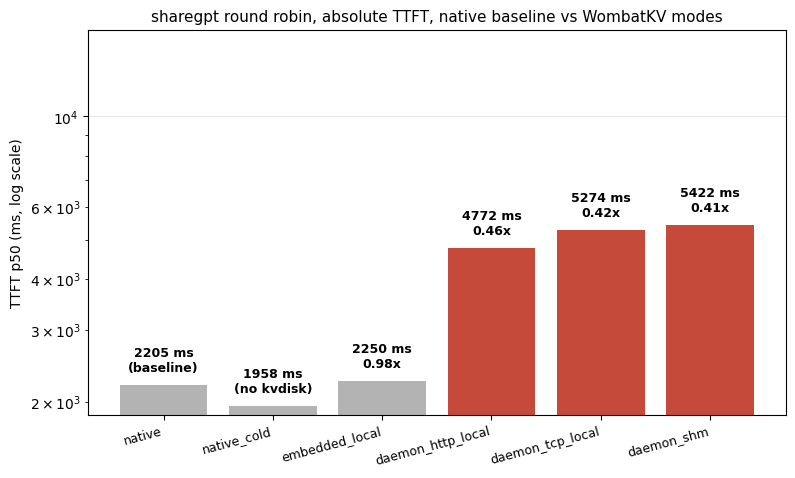
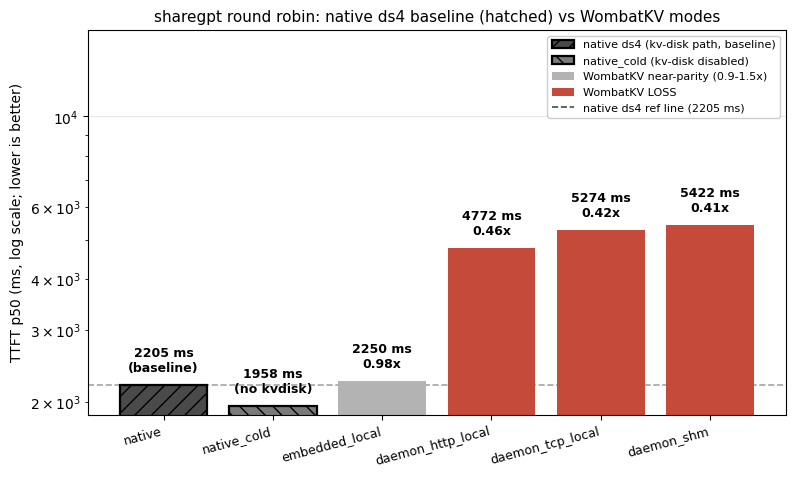
docs(charts): make native ds4 baseline visually unmistakable in every comparison chart
Three categories of fix on top of the chart-gen pass that landed in 0.1.0-alpha.pre1.0:

A. chart_public_workloads (gutenberg-multiround-speedup.png + sharegpt-round-robin-speedup.png):
   native + native_cold bars were plain gray and blended with near-parity wkv bars (since
   _color_for_speedup() returns the same gray for 0.9-1.5x). Now they get the same hatched
   + thick-black-edge styling as chart_mode_matrix_exact, plus a dashed horizontal reference
   line at the native TTFT and an explicit legend. Reader can see the baseline at a glance.

B. chart_mode_matrix_heatmap (mode-x-restart-policy-heatmap.png): native + native_cold rows
   were filtered out entirely, so the 1.0x anchor was only implicit in the color scale. Now
   both native rows appear as the leftmost rows with 1.0x / 0.99x cells (bold labels), so
   the speedup magnitudes for wkv rows are visually anchored next to the baseline.

C. chart_save_path_tax + chart_stage_breakdown_stacked: these measure wkv-internal stages
   (save + restore paths) where native ds4 has no analog (its kvdisk write is internal to
   prefill). Added explicit footer notes pointing readers to the scenario charts for native
   TTFT comparison, plus fixed the save-path title-vs-bar overlap and stage-breakdown
   right-panel title overlap.

All other charts (alpha-dev, mode-matrix exact / partial-prefix / scenarios, public-replay
sharegpt-turn-cliff) were already plotting native correctly and are unchanged.

diff --git a/scripts/charts/generate_charts.py b/scripts/charts/generate_charts.py
@@ -361,15 +361,25 @@ def chart_mode_matrix_exact():
 
 def chart_mode_matrix_heatmap():
     rows = _read_csv(ARTIFACTS / CAMPAIGN_MODE_MATRIX / "exact_prompt_matrix.csv")
-    canonical = [r for r in rows if r["scenario"] == "canonical_long_prompt" and r["mode"] not in ("native", "native_cold")]
-    modes = sorted({r["mode"] for r in canonical})
+    canonical = [r for r in rows if r["scenario"] == "canonical_long_prompt"]
+    # Put native as the leftmost row so the 1.0x baseline is visually
+    # anchored in the grid instead of only implied by the color scale.
+    wkv_modes = sorted({r["mode"] for r in canonical if r["mode"] not in ("native", "native_cold")})
+    modes = ["native", "native_cold"] + wkv_modes
     policies = ["preserved", "wiped", "same_process"]
     grid = np.full((len(modes), len(policies)), np.nan)
     for r in canonical:
+        if r["mode"] not in modes:
+            continue
         i = modes.index(r["mode"])
         j = policies.index(r["restart_policy"])
-        grid[i, j] = float(r["speedup_vs_native"])
-    fig, ax = plt.subplots(figsize=(WIDTH_INCHES, 4.5))
+        val_str = r["speedup_vs_native"]
+        # Native vs native is 1.0 by definition; missing -> NaN
+        if r["mode"] == "native":
+            grid[i, j] = 1.0
+        elif val_str:
+            grid[i, j] = float(val_str)
+    fig, ax = plt.subplots(figsize=(WIDTH_INCHES, 5.0))
     from matplotlib.colors import LogNorm
     finite_vals = grid[np.isfinite(grid)]
     if finite_vals.size:
@@ -380,10 +390,24 @@ def chart_mode_matrix_heatmap():
     ax.set_xticks(range(len(policies)))
     ax.set_xticklabels(policies)
     ax.set_yticks(range(len(modes)))
-    ax.set_yticklabels(modes)
+    # Bold the two native rows so the baseline anchor is obvious.
+    yticklabels = []
+    for m in modes:
+        if m in ("native", "native_cold"):
+            yticklabels.append(f"{m} (baseline)")
+        else:
+            yticklabels.append(m)
+    ax.set_yticklabels(yticklabels)
+    for tick, m in zip(ax.get_yticklabels(), modes):
+        if m in ("native", "native_cold"):
+            tick.set_fontweight("bold")
     ax.set_xlabel("Restart policy")
     ax.set_ylabel("Mode")
-    ax.set_title("Deployment mode matrix - speedup vs native ds4 (log color)", fontsize=11)
+    ax.set_title(
+        "Deployment mode matrix - speedup vs native ds4 (log color)\n"
+        "Native + native_cold rows shown as 1.0x / 0.99x anchor; wkv rows colored relative to native",
+        fontsize=10,
+    )
     for i in range(len(modes)):
         for j in range(len(policies)):
             v = grid[i, j]
@@ -531,21 +555,36 @@ def chart_public_workloads():
         labels = [r["mode"] for r in ordered]
         ttfts = [float(r["ttft_p50_ms"]) for r in ordered]
         speedups = [float(r["speedup_vs_native_ttft"]) for r in ordered]
-        colors = []
+        colors, hatches, edges, edge_widths = [], [], [], []
         for r, sp in zip(ordered, speedups):
-            if r["mode"] in ("native", "native_cold"):
-                colors.append(NEUTRAL_COLOR)
+            if r["mode"] == "native":
+                colors.append("#4a4a4a")
+                hatches.append("//")
+                edges.append("black")
+                edge_widths.append(1.6)
+            elif r["mode"] == "native_cold":
+                colors.append("#7a7a7a")
+                hatches.append("\\\\")
+                edges.append("black")
+                edge_widths.append(1.6)
             else:
                 colors.append(_color_for_speedup(sp))
+                hatches.append("")
+                edges.append("none")
+                edge_widths.append(0)
 
+        native_ttft_val = float(native_row["ttft_p50_ms"]) if native_row else None
         fig, ax = plt.subplots(figsize=(WIDTH_INCHES, 5.0))
-        bars = ax.bar(range(len(labels)), ttfts, color=colors)
+        bars = ax.bar(range(len(labels)), ttfts, color=colors,
+                      edgecolor=edges, linewidth=edge_widths, hatch=hatches)
+        if native_ttft_val:
+            ax.axhline(native_ttft_val, color="#4a4a4a", linestyle="--",
+                       linewidth=1.2, alpha=0.5, zorder=0)
         ax.set_yscale("log")
-        ax.set_ylabel("TTFT p50 (ms, log scale)")
+        ax.set_ylabel("TTFT p50 (ms, log scale; lower is better)")
         ax.set_xticks(range(len(labels)))
         ax.set_xticklabels(labels, rotation=15, ha="right", fontsize=9)
-        n_trials = scen_rows[0].get("n_trials", "?")
-        title = f"{scenario.replace('_', ' ')}, absolute TTFT, native baseline vs WombatKV modes"
+        title = f"{scenario.replace('_', ' ')}: native ds4 baseline (hatched) vs WombatKV modes"
         ax.set_title(title, fontsize=11)
         ax.grid(axis="y", alpha=0.3)
         for bar, t, r, sp in zip(bars, ttfts, ordered, speedups):
@@ -558,6 +597,28 @@ def chart_public_workloads():
             ax.text(bar.get_x() + bar.get_width() / 2, bar.get_height() * 1.06,
                     label, ha="center", va="bottom", fontsize=9, fontweight="bold")
         ax.set_ylim(top=max(ttfts) * 3.0)
+        from matplotlib.patches import Patch
+        from matplotlib.lines import Line2D
+        legend_items = [
+            Patch(facecolor="#4a4a4a", edgecolor="black", linewidth=1.6, hatch="//",
+                  label="native ds4 (kv-disk path, baseline)"),
+        ]
+        if native_cold_row:
+            legend_items.append(Patch(facecolor="#7a7a7a", edgecolor="black", linewidth=1.6, hatch="\\\\",
+                                      label="native_cold (kv-disk disabled)"))
+        wkv_speedups = [sp for r, sp in zip(ordered, speedups) if r["mode"] not in ("native", "native_cold")]
+        if any(s >= 5 for s in wkv_speedups):
+            legend_items.append(Patch(facecolor=WIN_COLOR, label="WombatKV WIN (>= 5x)"))
+        if any(1.5 <= s < 5 for s in wkv_speedups):
+            legend_items.append(Patch(facecolor=SMALL_WIN_COLOR, label="WombatKV small WIN (1.5-5x)"))
+        if any(0.9 <= s < 1.5 for s in wkv_speedups):
+            legend_items.append(Patch(facecolor=NEUTRAL_COLOR, label="WombatKV near-parity (0.9-1.5x)"))
+        if any(s < 0.9 for s in wkv_speedups):
+            legend_items.append(Patch(facecolor=LOSS_COLOR, label="WombatKV LOSS"))
+        if native_ttft_val:
+            legend_items.append(Line2D([0], [0], color="#4a4a4a", linestyle="--", linewidth=1.2,
+                                       label=f"native ds4 ref line ({int(native_ttft_val)} ms)"))
+        ax.legend(handles=legend_items, loc="upper right", fontsize=8, framealpha=0.95)
         _save(fig, CAMPAIGN_PUBLIC_REPLAY, f"{scenario.replace('_', '-')}-speedup.png")
 
 
@@ -567,17 +628,29 @@ def chart_save_path_tax():
     labels = [r["mode"] for r in rows]
     times = [float(r["save_entry_to_exit_ms_p50"]) for r in rows]
     colors = [WIN_COLOR] + [LOSS_COLOR] * (len(times) - 1)
-    fig, ax = plt.subplots(figsize=(WIDTH_INCHES, 4.0))
+    fig, ax = plt.subplots(figsize=(WIDTH_INCHES, 5.2))
     bars = ax.bar(range(len(labels)), times, color=colors)
     ax.set_xticks(range(len(labels)))
     ax.set_xticklabels(labels, rotation=15, ha="right", fontsize=9)
     ax.set_ylabel("Save path entry-to-exit p50 (ms)")
-    ax.set_title("Save-path tax by mode (sharegpt_round_robin, embedded baseline)", fontsize=11)
+    ax.set_title(
+        "Save-path tax by mode\n"
+        "sharegpt_round_robin, embedded_local = 1.0x WombatKV baseline (no native analog)",
+        fontsize=10,
+    )
     ax.grid(axis="y", alpha=0.3)
+    ax.set_ylim(top=max(times) * 1.18)
     for bar, t in zip(bars, times):
         mult = t / times[0] if times[0] > 0 else 1.0
         ax.text(bar.get_x() + bar.get_width() / 2, bar.get_height() + 20,
                 f"{int(t)} ms\n({mult:.1f}x)", ha="center", va="bottom", fontsize=9, fontweight="bold")
+    # Footer note: native ds4 has no save-path because kvdisk write is
+    # internal to its prefill; native is compared in the scenario charts.
+    fig.subplots_adjust(bottom=0.28)
+    fig.text(0.5, 0.02,
+             "Native ds4 has no save-path stage (kvdisk write is internal to prefill); see\n"
+             "gutenberg-multiround-speedup.png + sharegpt-round-robin-speedup.png for native TTFT comparison.",
+             ha="center", fontsize=8, style="italic", color="#555555")
     _save(fig, CAMPAIGN_PUBLIC_REPLAY, "save-path-tax-by-mode.png")
 
 
@@ -685,15 +758,25 @@ def chart_stage_breakdown_stacked():
     axR.set_xticks(range(len(modes_s)))
     axR.set_xticklabels(modes_s, rotation=15, ha="right", fontsize=9)
     axR.set_ylabel("Save path entry-to-exit p50 (ms)")
-    axR.set_title("Per-save total cost, the daemon save-tax (embedded baseline)", fontsize=10)
+    axR.set_title("Per-save total cost, daemon save-tax\n(embedded_local = 1.0x baseline)", fontsize=10)
     axR.grid(axis="y", alpha=0.3)
+    # Give the right-panel bars headroom so the title doesn't overlap the
+    # tallest bar's value annotation.
+    axR.set_ylim(top=max(times_s) * 1.18)
 
     fig.suptitle(
         "Stage-level diagnostic, why embedded beats daemon on real chat\n"
         "Restore is comparable; save-path is 6.6-8x slower under daemon",
         fontsize=11, fontweight="bold",
     )
-    fig.tight_layout(rect=[0, 0, 1, 0.94])
+    fig.tight_layout(rect=[0, 0.03, 1, 0.94])
+    # Footer note: both panels are WombatKV-internal stages; native has
+    # no analogous restore/save path. Point readers at the comparison
+    # charts for native ds4 TTFT data.
+    fig.text(0.5, 0.005,
+             "Both panels measure WombatKV-internal stages; native ds4 has no equivalent restore/save path. "
+             "See gutenberg-multiround-speedup.png + sharegpt-round-robin-speedup.png for native TTFT comparison.",
+             ha="center", fontsize=8, style="italic", color="#555555")
     _save(fig, CAMPAIGN_PUBLIC_REPLAY, "stage-breakdown-restore-vs-save.png")
 
 
